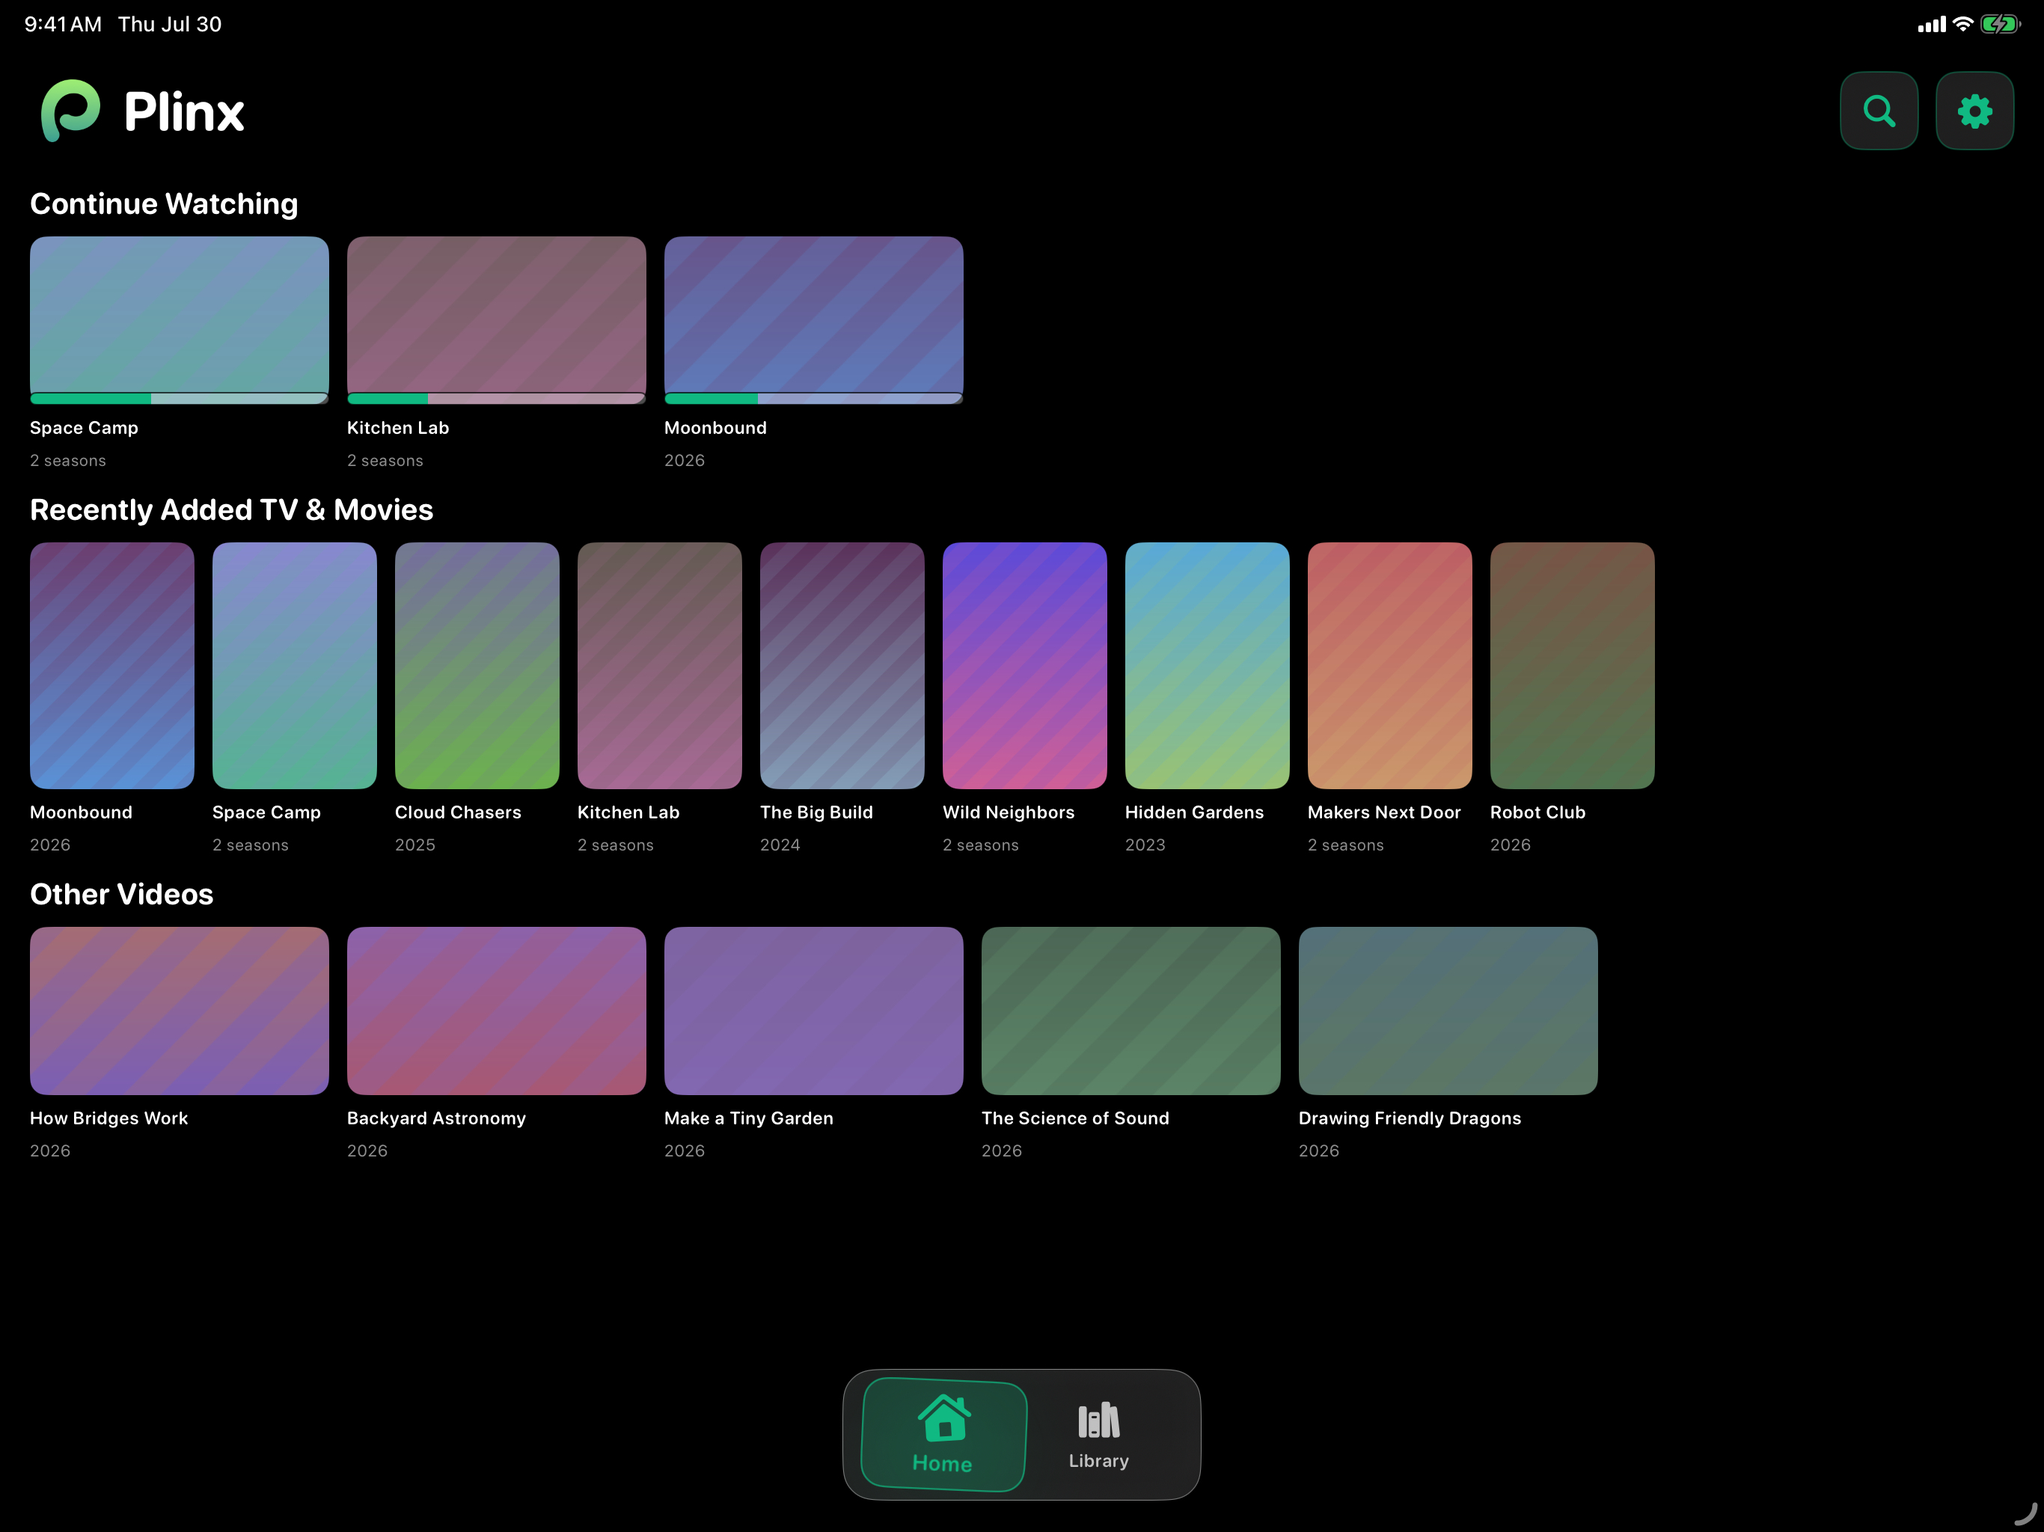
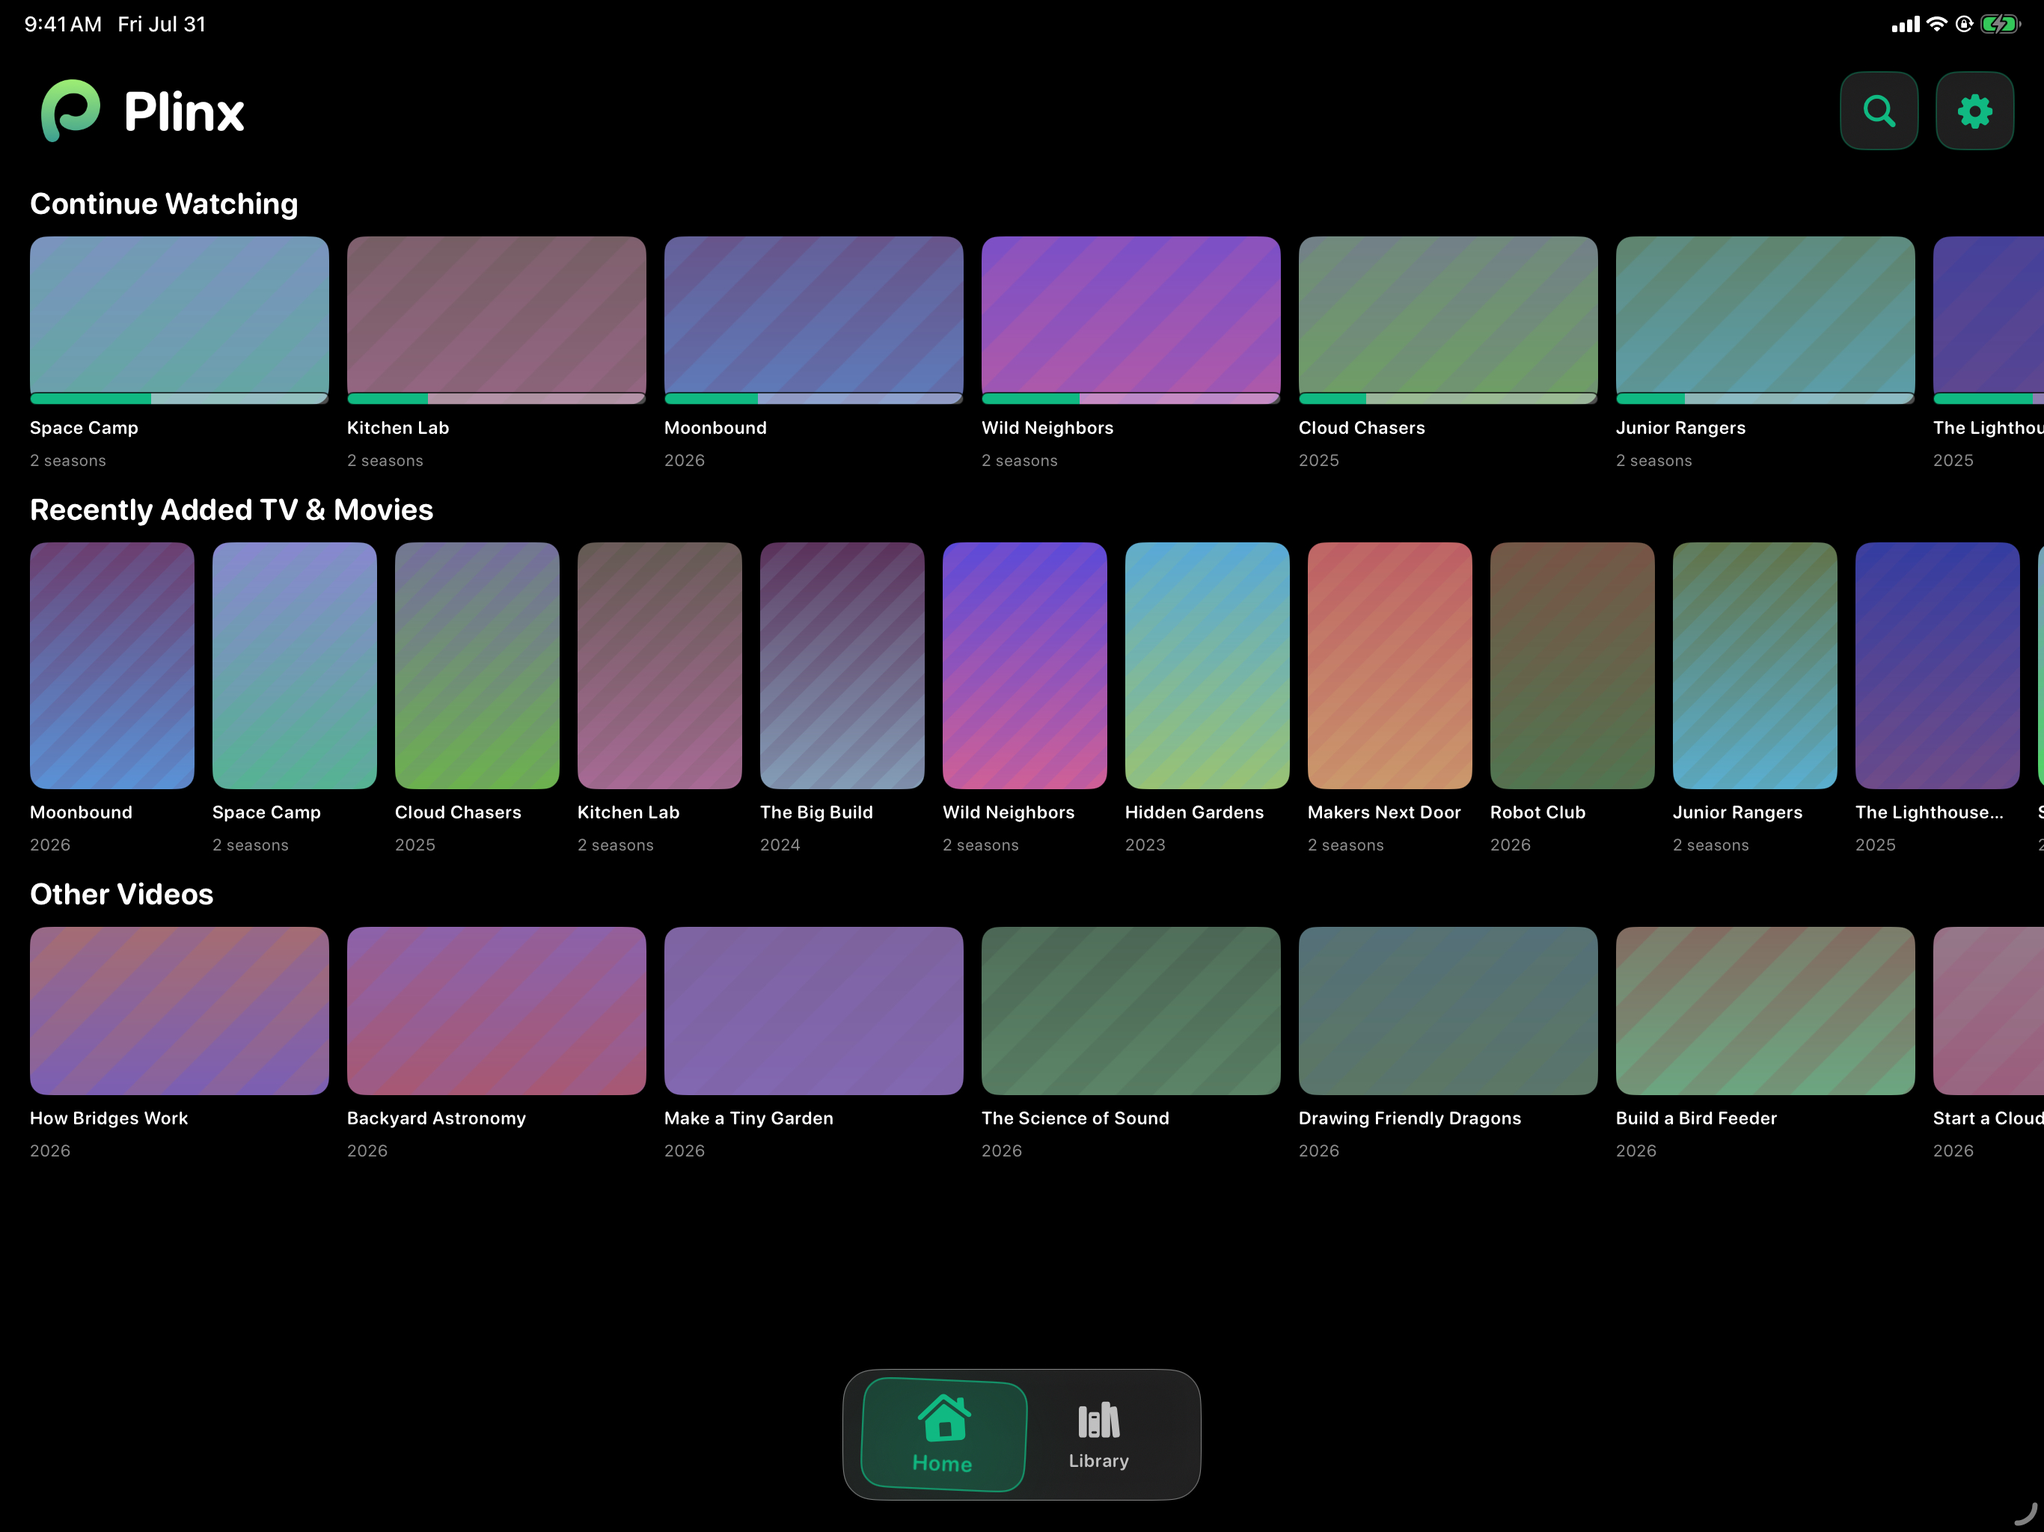
Fill App Store screenshot fixtures
Add dense fictional PG and TV-PG fixtures, square Youtarr channel art, and automated selective landscape screenshot capture.

diff --git a/PlinxApp/App/AppDelegate.swift b/PlinxApp/App/AppDelegate.swift
@@ -1,16 +1,33 @@
 import UIKit
 
 final class AppDelegate: NSObject, UIApplicationDelegate {
+    override init() {
+        if ProcessInfo.processInfo.arguments.contains("--app-store-landscape") {
+            Self.orientationLock = .landscapeLeft
+            UIDevice.current.setValue(
+                UIInterfaceOrientation.landscapeLeft.rawValue,
+                forKey: "orientation"
+            )
+        }
+        super.init()
+    }
+
     static var orientationLock = UIInterfaceOrientationMask.all {
         didSet {
             for scene in UIApplication.shared.connectedScenes {
                 if let windowScene = scene as? UIWindowScene {
+                    windowScene.windows.first?.rootViewController?.setNeedsUpdateOfSupportedInterfaceOrientations()
                     windowScene.requestGeometryUpdate(.iOS(interfaceOrientations: orientationLock))
                 }
             }
-            if let scene = UIApplication.shared.connectedScenes.first as? UIWindowScene {
-                scene.windows.first?.rootViewController?.setNeedsUpdateOfSupportedInterfaceOrientations()
-            }
+        }
+    }
+
+    static func requestCurrentGeometryUpdate() {
+        for scene in UIApplication.shared.connectedScenes {
+            guard let windowScene = scene as? UIWindowScene else { continue }
+            windowScene.windows.first?.rootViewController?.setNeedsUpdateOfSupportedInterfaceOrientations()
+            windowScene.requestGeometryUpdate(.iOS(interfaceOrientations: orientationLock))
         }
     }
 

diff --git a/PlinxApp/App/AppStoreScreenshotBootstrap.swift b/PlinxApp/App/AppStoreScreenshotBootstrap.swift
@@ -17,6 +17,16 @@ enum AppStoreScreenshotBootstrap {
         }
         #if os(iOS)
         AppDelegate.orientationLock = .landscapeLeft
+        // Simulator launch arguments do not emit a physical rotation event.
+        // Nudge UIKit once so the production scene renders landscape before
+        // the capture script takes its framebuffer screenshot.
+        UIDevice.current.setValue(
+            UIInterfaceOrientation.landscapeLeft.rawValue,
+            forKey: "orientation"
+        )
+        DispatchQueue.main.asyncAfter(deadline: .now() + 0.25) {
+            AppDelegate.requestCurrentGeometryUpdate()
+        }
         #endif
     }
 

diff --git a/scripts/app_store_fixture_server.py b/scripts/app_store_fixture_server.py
@@ -19,6 +19,9 @@ MOVIES = [
     ("big-build", "The Big Build", "PG", 2024, "Friends transform an empty lot into a community workshop."),
     ("hidden-gardens", "Hidden Gardens", "G", 2023, "A gentle tour of surprising gardens around the world."),
     ("robot-club", "Robot Club", "PG", 2026, "A school robotics team learns to build together."),
+    ("lighthouse-map", "The Lighthouse Map", "PG", 2025, "Siblings follow clues along a quiet coast."),
+    ("paper-airship", "The Paper Airship", "G", 2024, "A classroom invention takes an unexpected journey."),
+    ("river-trail", "The River Trail", "PG", 2026, "Friends learn to read a landscape together."),
 ]
 
 SHOWS = [
@@ -26,6 +29,10 @@ SHOWS = [
     ("kitchen-lab", "Kitchen Lab", "TV-G", 2025, "Every recipe becomes a friendly science experiment."),
     ("wild-neighbors", "Wild Neighbors", "TV-PG", 2024, "Families discover the animals living close to home."),
     ("makers-next-door", "Makers Next Door", "TV-G", 2025, "Creative neighbors share practical projects."),
+    ("junior-rangers", "Junior Rangers", "TV-G", 2026, "Young naturalists care for a neighborhood park."),
+    ("story-station", "Story Station", "TV-PG", 2025, "A book club turns stories into weekend adventures."),
+    ("music-room", "The Music Room", "TV-G", 2024, "Friends explore instruments and sounds."),
+    ("market-day", "Market Day", "TV-PG", 2026, "A community market becomes a lesson in teamwork."),
 ]
 
 OTHER_VIDEOS = [
@@ -34,6 +41,11 @@ OTHER_VIDEOS = [
     ("tiny-garden", "Make a Tiny Garden", "G", 2026, "A small growing project for families."),
     ("science-sound", "The Science of Sound", "PG", 2026, "Experiments with rhythm and vibration."),
     ("friendly-dragons", "Drawing Friendly Dragons", "G", 2026, "A playful step-by-step drawing lesson."),
+    ("bird-feeder", "Build a Bird Feeder", "G", 2026, "A simple project for welcoming backyard birds."),
+    ("cloud-journal", "Start a Cloud Journal", "PG", 2026, "Learn to notice and record changing skies."),
+    ("paper-circuits", "Make a Paper Circuit", "PG", 2026, "Light up a drawing with a beginner circuit."),
+    ("bread-science", "The Science of Bread", "G", 2026, "See how simple ingredients change as dough rises."),
+    ("map-compass", "Maps and Compasses", "PG", 2026, "Practice basic navigation on a family walk."),
 ]
 
 YOUTARR_VIDEOS = [
@@ -43,6 +55,24 @@ YOUTARR_VIDEOS = [
     ("science-sound", "The Science of Sound", "Everyday Lab", "TV-PG", 532),
     ("friendly-dragons", "Drawing Friendly Dragons", "Art Table", "TV-Y7", 721),
     ("bird-feeder", "Build a Bird Feeder", "Curious Workshop", "TV-G", 574),
+    ("cloud-journal", "Start a Cloud Journal", "Weather Watch", "TV-G", 446),
+    ("paper-circuits", "Make a Paper Circuit", "Circuit Corner", "TV-PG", 638),
+    ("bread-science", "The Science of Bread", "Kitchen Lab", "TV-G", 509),
+    ("map-compass", "Maps and Compasses", "Trail Guides", "TV-PG", 682),
+    ("shadow-theater", "Build a Shadow Theater", "Art Table", "TV-Y7", 592),
+    ("pond-watch", "Life in a Small Pond", "Green Things", "TV-G", 557),
+]
+
+YOUTARR_CHANNELS = [
+    ("Curious Workshop", "Hands-on engineering for families"),
+    ("Sky Club", "Friendly guides to the night sky"),
+    ("Green Things", "Small projects for growing minds"),
+    ("Everyday Lab", "Science hiding in ordinary places"),
+    ("Art Table", "Drawing and making for every skill level"),
+    ("Weather Watch", "Simple ways to observe weather"),
+    ("Circuit Corner", "Friendly introductions to electronics"),
+    ("Kitchen Lab", "Food experiments for curious families"),
+    ("Trail Guides", "Outdoor skills for neighborhood explorers"),
 ]
 
 
@@ -119,6 +149,10 @@ CONTINUE_ITEMS = [
     plex_item(*SHOWS[0], item_type="show", view_offset=630_000),
     plex_item(*SHOWS[1], item_type="show", view_offset=420_000),
     plex_item(*MOVIES[0], item_type="movie", view_offset=1_920_000),
+    plex_item(*SHOWS[2], item_type="show", view_offset=510_000),
+    plex_item(*MOVIES[1], item_type="movie", view_offset=1_380_000),
+    plex_item(*SHOWS[4], item_type="show", view_offset=360_000),
+    plex_item(*MOVIES[5], item_type="movie", view_offset=2_040_000),
 ]
 
 
@@ -185,14 +219,8 @@ def youtarr_capabilities() -> dict:
 
 
 def youtarr_channels() -> dict:
-    channels = [
-        ("Curious Workshop", "Hands-on engineering for families"),
-        ("Sky Club", "Friendly guides to the night sky"),
-        ("Green Things", "Small projects for growing minds"),
-        ("Everyday Lab", "Science hiding in ordinary places"),
-    ]
     data = []
-    for index, (title, summary) in enumerate(channels, start=1):
+    for index, (title, summary) in enumerate(YOUTARR_CHANNELS, start=1):
         slug = title.lower().replace(" ", "-")
         data.append(
             {
@@ -221,6 +249,10 @@ def youtarr_channels() -> dict:
 
 
 def youtarr_videos() -> dict:
+    channel_ids = {
+        title: index
+        for index, (title, _) in enumerate(YOUTARR_CHANNELS, start=1)
+    }
     data = []
     for index, (slug, title, channel, rating, duration) in enumerate(
         YOUTARR_VIDEOS, start=1
@@ -237,8 +269,8 @@ def youtarr_videos() -> dict:
                 "isRequested": False,
                 "requestStatus": None,
                 "rating": rating,
-                "channelDatabaseId": (index % 4) + 1,
-                "channelId": f"fixture-channel-{(index % 4) + 1}",
+                "channelDatabaseId": channel_ids[channel],
+                "channelId": f"fixture-channel-{channel_ids[channel]}",
                 "channelTitle": channel,
                 "mediaType": "video",
             }
@@ -257,6 +289,71 @@ def youtarr_videos() -> dict:
         "lastIndexedAt": "2026-07-30T12:00:00.000Z",
         "indexingHint": None,
     }
+
+
+def asset_dimensions(path: str) -> tuple[int, int]:
+    if "/channel-" in path:
+        return (512, 512)
+    return (640, 360)
+
+
+def validate_fixtures() -> None:
+    minimum_counts = {
+        "movies": (MOVIES, 8),
+        "shows": (SHOWS, 8),
+        "other videos": (OTHER_VIDEOS, 10),
+        "continue watching": (CONTINUE_ITEMS, 6),
+        "Youtarr videos": (YOUTARR_VIDEOS, 12),
+        "Youtarr channels": (YOUTARR_CHANNELS, 8),
+    }
+    for label, (records, minimum) in minimum_counts.items():
+        if len(records) < minimum:
+            raise ValueError(
+                f"{label} has {len(records)} fixtures; expected at least {minimum}"
+            )
+
+    content_slugs = [record[0] for record in MOVIES + SHOWS + OTHER_VIDEOS]
+    if len(content_slugs) != len(set(content_slugs)):
+        raise ValueError("Plex fixture slugs must be unique")
+
+    youtarr_slugs = [record[0] for record in YOUTARR_VIDEOS]
+    if len(youtarr_slugs) != len(set(youtarr_slugs)):
+        raise ValueError("Youtarr fixture slugs must be unique")
+
+    channel_titles = {record[0] for record in YOUTARR_CHANNELS}
+    missing_channels = {
+        record[2]
+        for record in YOUTARR_VIDEOS
+        if record[2] not in channel_titles
+    }
+    if missing_channels:
+        raise ValueError(
+            f"Youtarr videos reference missing channels: {sorted(missing_channels)}"
+        )
+
+    plex_ratings = {record[2] for record in MOVIES + OTHER_VIDEOS}
+    show_ratings = {record[2] for record in SHOWS}
+    youtarr_ratings = {record[3] for record in YOUTARR_VIDEOS}
+    if not plex_ratings <= {"G", "PG"}:
+        raise ValueError(f"movie fixtures exceed PG: {sorted(plex_ratings)}")
+    if not show_ratings <= {"TV-Y", "TV-Y7", "TV-G", "TV-PG"}:
+        raise ValueError(f"show fixtures exceed TV-PG: {sorted(show_ratings)}")
+    if not youtarr_ratings <= {"TV-Y", "TV-Y7", "TV-G", "TV-PG"}:
+        raise ValueError(f"Youtarr fixtures exceed TV-PG: {sorted(youtarr_ratings)}")
+
+    for channel in youtarr_channels()["data"]:
+        width, height = asset_dimensions(channel["thumbnailUrl"])
+        if width != height:
+            raise ValueError(
+                f"channel artwork must be square: {channel['thumbnailUrl']}"
+            )
+
+    for video in youtarr_videos()["data"]:
+        width, height = asset_dimensions(video["thumbnailUrl"])
+        if width * 9 != height * 16:
+            raise ValueError(
+                f"video artwork must be 16:9: {video['thumbnailUrl']}"
+            )
 
 
 class FixtureHandler(BaseHTTPRequestHandler):
@@ -364,7 +461,8 @@ class FixtureHandler(BaseHTTPRequestHandler):
                 }
             )
         elif path.startswith("/external-api/v1/assets/"):
-            self.send_png(path, 640, 360)
+            width, height = asset_dimensions(path)
+            self.send_png(path, width, height)
         else:
             self.send_json({"error": "fixture endpoint not found", "path": path}, 404)
 
@@ -402,7 +500,17 @@ def main() -> None:
     parser.add_argument("--host", default="127.0.0.1")
     parser.add_argument("--port", default=8765, type=int)
     parser.add_argument("--verbose", action="store_true")
+    parser.add_argument(
+        "--validate",
+        action="store_true",
+        help="validate fixture density, ratings, identifiers, and artwork shapes",
+    )
     args = parser.parse_args()
+
+    validate_fixtures()
+    if args.validate:
+        print("App Store fixtures are valid")
+        return
 
     server = ThreadingHTTPServer((args.host, args.port), FixtureHandler)
     server.verbose = args.verbose

diff --git a/scripts/README.md b/scripts/README.md
@@ -312,12 +312,14 @@ Validates the app bundle inside an `.xcarchive` before you upload it.
 
 ### App Store Screenshot Validation
 
-`scripts/capture_app_store_screenshots.sh` builds the app once, starts the
-credential-free Plex and Youtarr fixture service, resets the simulators, and
-captures the seven production surfaces:
+`scripts/capture_app_store_screenshots.sh` generates the Xcode project, builds
+the app once, starts the credential-free Plex and Youtarr fixture service,
+resets the simulators, and captures the seven production surfaces. It validates
+fixture density and artwork geometry before building:
 
 ```bash
 ./scripts/capture_app_store_screenshots.sh
+./scripts/capture_app_store_screenshots.sh --only home,youtarr
 ./scripts/tests/validate_app_store_screenshots.sh
 ```
 
@@ -329,7 +331,8 @@ The validator requires exactly 14 opaque PNG files:
 The fixture service supplies data and original abstract artwork only. It does
 not replace the app UI. The capture profile permits PG movies and TV-PG
 television, excludes unrated content, and includes an Other Videos Home row
-with landscape thumbnails.
+with landscape thumbnails. The `--only` form keeps the existing validated
+inventory and refreshes only the named production screens.
 
 Use `scripts/flatten_screenshot_alpha.sh INPUT.png OUTPUT.png` for an individual
 manual capture. Do not promote the legacy `screenshots/` files; they fail the

diff --git a/docs/release/app-store.md b/docs/release/app-store.md
@@ -98,12 +98,15 @@ installed app renders the production loading, connection, navigation, view
 models, Home rows, details, Settings, parental gate, and Youtarr Explore
 surfaces. Movie and television limits are set to PG and TV-PG, unrated content
 is excluded, and the Home screen includes a fictional Other Videos library
-with landscape thumbnails below Recent Movies & TV.
+with landscape thumbnails below Recent Movies & TV. The fixtures contain
+enough items to fill a landscape iPad row, and Youtarr channel artwork is
+square. The capture command validates those fixture contracts before building.
 
 The fixture service listens only on localhost and uses placeholder
 credentials. No personal Plex account, server name, Youtarr key, external
 link, or third-party promotional artwork is used. Run the capture script, then
 inspect all 14 files and run `scripts/tests/validate_app_store_screenshots.sh`.
+Use `--only home,youtarr` when only fixture-driven library screens changed.
 
 The `AppIcon` catalog is generated from the approved Plink Loop identity with
 Any, Dark, and Tinted 1024-point sources. Run

diff --git a/docs/development/ui-testing.md b/docs/development/ui-testing.md
@@ -103,6 +103,20 @@ production-view harness is `appStoreMediaDetail`, which supplies the selected
 fixture item to the real media-detail view model. The loading capture uses
 `homeLoading`; all other captures use normal production routes or live fixture
 loading. Keep the fixture service credential-free and capped at PG/TV-PG.
+The command validates fixture density, rating ceilings, unique identifiers,
+square channel artwork, and 16:9 video artwork before generating the Xcode
+project and building. It builds once and captures both device sets. For a
+fixture-only refresh, retain the existing inventory and capture only the
+affected production screens:
+
+```bash
+./scripts/capture_app_store_screenshots.sh --only home,youtarr
+```
+
+Simulator readiness is bounded to 120 seconds and checks the simulator's
+booted state without waiting indefinitely on a runtime service. The
+presentation-only status bar override is also bounded and cannot block a
+capture when the simulator is otherwise ready.
 
 ### tvOS focus rules
 
